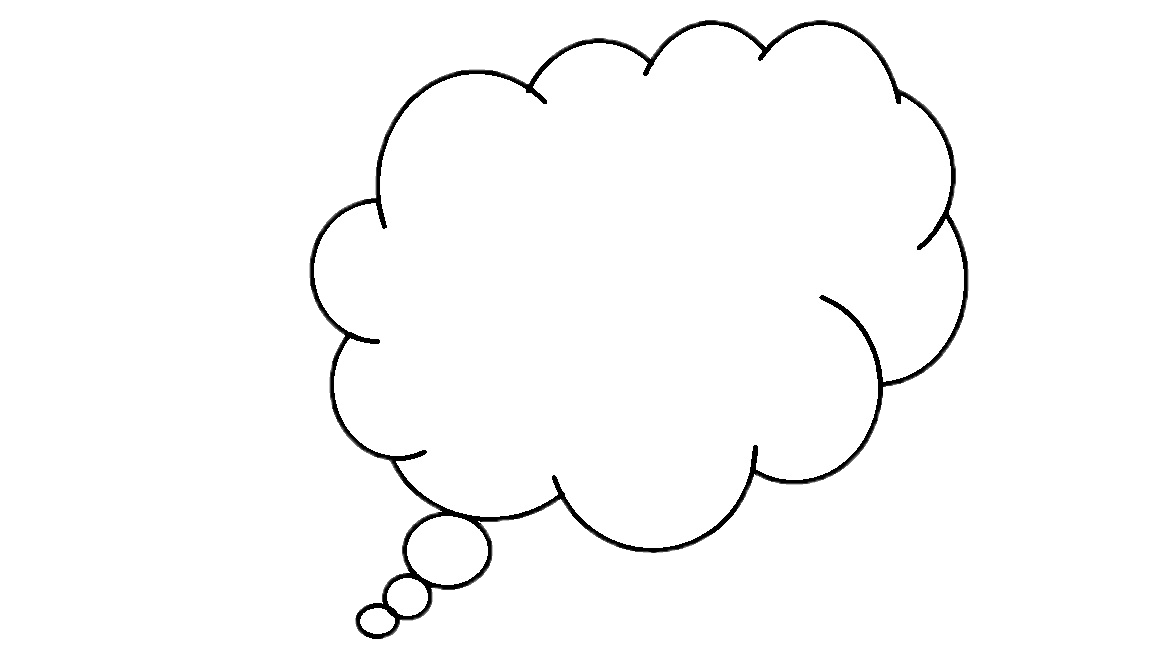
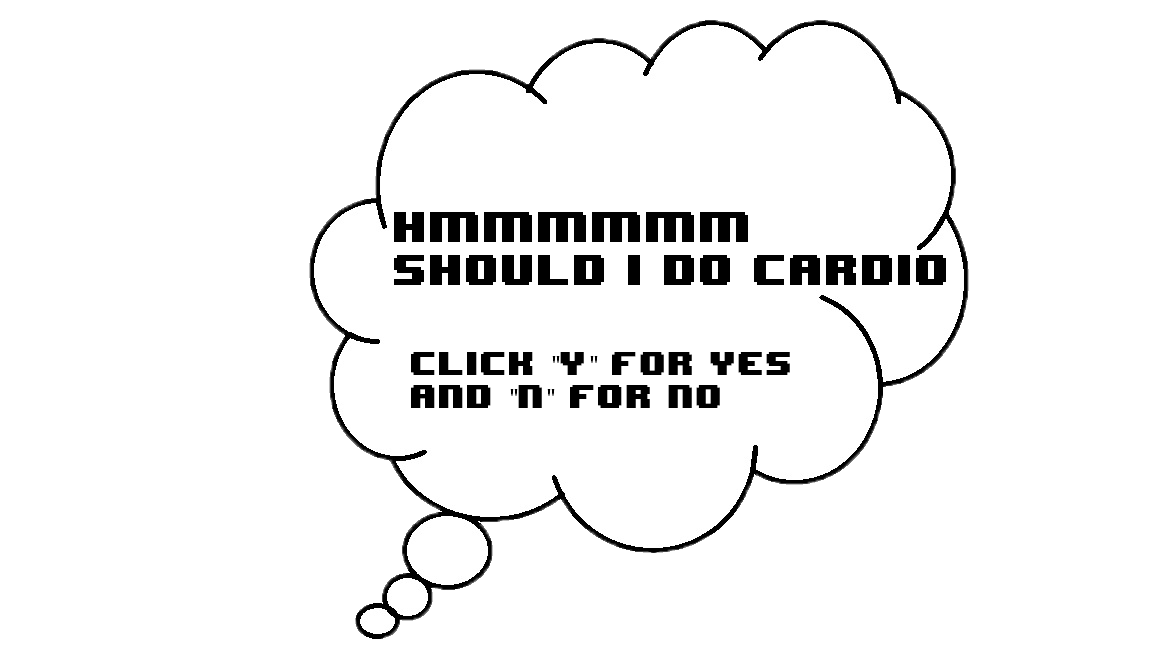
Got the big guy to show up gotta make him disappear

Changed region(s): [[0.3438, 0.3086, 0.8438, 0.463], [0.3438, 0.5247, 0.6875, 0.6481]]

diff --git a/a2/warrior.js b/a2/warrior.js
@@ -11,12 +11,14 @@ const WALK = 1;
 const ATTACK = 2;
 const JUMP = 3;
 
+
+
 function ThinkingCloud(game, spritesheets) {
 	this.spritesheets = spritesheets;
-	this.animation = new Animation(spritesheets[3], 1152, 648, 1, 0.2, 1, true, 0.2, false);
+	this.animation = new Animation(spritesheets[3], 1152, 648, 1, 0.2, 1, true, 0.3, false);
 	this.ctx = game.ctx;
 	this.pressed = false;
-	Entity.call(this, game, 400,500);
+	Entity.call(this, game, 600,350);
 
 }
 
@@ -25,12 +27,89 @@ ThinkingCloud.prototype.constructor = ThinkingCloud;
 
 ThinkingCloud.prototype.draw = function() {
 	
-	if(this.game.entities[1].x >= 800 && this.game.entities[1].x <= 850){
+	if((this.game.entities[3].x >= 450 && this.game.entities[3].x <= 550)){
 		this.animation.drawFrame(this.game.clockTick, this.ctx, this.x, this.y);
 		Entity.prototype.draw.call(this);
+		
+	}
+	if( (this.game.entities[3].x >= 350 && this.game.entities[3].x <= 380)) {
+		this.animation.drawFrame(this.game.clockTick, this.ctx, 350, this.y); //FIX THE NUMBERS
+		Entity.prototype.draw.call(this);	
 	}
 
 }
+
+ThinkingCloud.prototype.update = function () {
+	var ThinkingCloud = this;
+	this.ctx.canvas.addEventListener("keydown", function (e) { //get pressing to work
+		if (e.code === "keyY") {
+			console.log("clicked y");
+		} 		
+    }, false);
+	if((this.game.entities[1].x >= 450 && this.game.entities[1].x <= 475)) {
+		console.log("I should click Y");
+	}
+
+}
+
+function FatGuy(game, spritesheets) {
+	this.spritesheets = spritesheets;
+	this.animation = new Animation(spritesheets[4], 300, 418, 1, 0.5, 1, true, 0.85, false);
+	this.state = IDLE_RIGHT;
+	this.speed = 0;
+	this.ySpeed = 0;
+	this.ctx = game.ctx;
+	this.pressed = false;
+	Entity.call(this, game, 400, 530);
+}
+
+FatGuy.prototype = new Entity();
+FatGuy.prototype.constructor = FatGuy;
+
+FatGuy.prototype.update = function () {
+	var FatGuy = this;
+	this.ctx.canvas.addEventListener("keydown", function (e) {
+		if (e.code === "ArrowRight" && FatGuy.state !== WALK_RIGHT && 
+		    (FatGuy.state !== JUMP_RIGHT && FatGuy.state !== JUMP_LEFT)) {
+			FatGuy.pressed = true;
+			FatGuy.setState(WALK_RIGHT);
+		} 
+		if (e.code === "ArrowLeft" && FatGuy.state !== WALK_LEFT && 
+		           (FatGuy.state !== JUMP_RIGHT && FatGuy.state !== JUMP_LEFT)) {
+			FatGuy.pressed = true;
+			FatGuy.setState(WALK_LEFT);
+		}	
+	}, false);
+	this.ctx.canvas.addEventListener("keyup", function (e) {
+        if (e.code === "ArrowRight" && 
+		    FatGuy.state !== IDLE_RIGHT && 
+			FatGuy.state !== JUMP_RIGHT && 
+			FatGuy.state !== JUMP_LEFT &&		
+			FatGuy.state !== ATTACK_RIGHT && 
+			FatGuy.state !== ATTACK_LEFT) {
+			FatGuy.pressed = false;
+			FatGuy.setState(IDLE_RIGHT);
+		}
+		if (e.code === "ArrowLeft" && 
+		    FatGuy.state !== IDLE_LEFT && 
+			FatGuy.state !== JUMP_RIGHT && 
+			FatGuy.state !== JUMP_LEFT &&
+			FatGuy.state !== ATTACK_RIGHT && 
+			FatGuy.state !== ATTACK_LEFT) {
+			FatGuy.pressed = false;	
+			FatGuy.setState(IDLE_LEFT);
+		}
+    }, false);
+	this.x += this.game.clockTick * this.speed;
+	Entity.prototype.update.call(this);
+
+}
+FatGuy.prototype.draw = function () {
+    this.animation.drawFrame(this.game.clockTick, this.ctx, this.x, this.y);
+    Entity.prototype.draw.call(this);
+}
+
+
 
 function Warrior(game, spritesheets) {
 	this.spritesheets = spritesheets;
@@ -38,8 +117,6 @@ function Warrior(game, spritesheets) {
 	this.state = IDLE_RIGHT;
     this.speed = 0;
 	this.ySpeed = 0 ;
-	this.isJumping = false;
-	this.isAttacking = false;
     this.ctx = game.ctx;
 	this.pressed = false;
     Entity.call(this, game, 400, 500);
@@ -61,25 +138,6 @@ Warrior.prototype.update = function () {
 			Warrior.pressed = true;
 			Warrior.setState(WALK_LEFT);
 		}
-		if (e.code === "ArrowUp") {
-			if((Warrior.state === WALK_RIGHT || Warrior.state === IDLE_RIGHT) && 
-			   Warrior.state !== JUMP_RIGHT) {
-				Warrior.setState(JUMP_RIGHT);
-			} else if ((Warrior.state === WALK_LEFT || Warrior.state === IDLE_LEFT) && 
-			           Warrior.state !== JUMP_LEFT) {
-				Warrior.setState(JUMP_LEFT);
-			}	
-		}
-		if (e.code === "ArrowDown") {
-			if((Warrior.state === WALK_RIGHT || Warrior.state === IDLE_RIGHT) && 
-			   Warrior.state !== JUMP_RIGHT) {
-				Warrior.setState(ATTACK_RIGHT);
-			} else if ((Warrior.state === WALK_LEFT || Warrior.state === IDLE_LEFT) && 
-			           Warrior.state !== JUMP_LEFT) {
-				Warrior.setState(ATTACK_LEFT);
-			}	
-		}
-		
 		
     }, false);
 	
@@ -127,16 +185,18 @@ Warrior.prototype.update = function () {
 		this.ySpeed = 0;
 	}
 	//condtional statements can go here
-    if (this.x >= 800 && this.x <= 850){ 
-		console.log("HelloWorld");
-	}
 	
     Entity.prototype.update.call(this);
 }
 
 Warrior.prototype.draw = function () {
-    this.animation.drawFrame(this.game.clockTick, this.ctx, this.x, this.y);
-    Entity.prototype.draw.call(this);
+	if(this.game.entities[3].x > 800) {
+		console.log("fat guy walking");
+		console.log(this.game.entities[3].x);
+	 //get the first entitiy to remove and 2nd one to show
+	}
+  /*  this.animation.drawFrame(this.game.clockTick, this.ctx, this.x, this.y);
+    Entity.prototype.draw.call(this);*/
 }
 
 Warrior.prototype.setState = function(state) {
@@ -178,4 +238,25 @@ Warrior.prototype.setState = function(state) {
 		this.state = ATTACK_LEFT;
 		this.animation = new Animation(this.spritesheets[ATTACK], 230, 768, 6, 0.14, 6, true, 0.5, true);
 	}
+}
+
+FatGuy.prototype.setState = function(state) {
+	if (state === IDLE_RIGHT) {
+		this.speed = 0;
+		this.state = IDLE_RIGHT;
+		this.animation = new Animation(this.spritesheets[4], 300, 418, 1, 0.5, 1, true, 0.85, false);
+	} else if (state === IDLE_LEFT) {
+		this.speed = 0;
+		this.state = IDLE_LEFT;
+		this.animation = new Animation(this.spritesheets[4], 300, 418, 1, 0.5, 1, true, 0.85, true);
+	} else if (state === WALK_RIGHT) {
+		this.speed = 50;
+		this.state = WALK_RIGHT;
+		this.animation = new Animation(this.spritesheets[5], 300, 418, 4, 0.5, 4, true, 0.85, false);
+	} else if (state === WALK_LEFT) {
+		this.speed = -50;
+		this.state = WALK_LEFT;
+		this.animation = new Animation(this.spritesheets[5], 300, 418, 4, 0.5, 4, true, 0.85, true);
+	}
+
 }

diff --git a/a2/main.js b/a2/main.js
@@ -22,6 +22,8 @@ AM.queueDownload("./a2/img/heroIdle.png");
 AM.queueDownload("./a2/img/heroWalk.png");
 AM.queueDownload("./a2/img/heroJump.png");
 AM.queueDownload("./a2/img/think.png");
+AM.queueDownload("./a2/img/fatGuyIdle.png");
+AM.queueDownload("./a2/img/fatGuyWalking.png");
 AM.queueDownload("./a2/img/background.png");
 
 AM.downloadAll(function () {
@@ -33,16 +35,22 @@ AM.downloadAll(function () {
     gameEngine.start();
 	
 	var spritesheets = [];
-	spritesheets.push(AM.getAsset("./a2/img/heroIdle.png"));
-	spritesheets.push(AM.getAsset("./a2/img/heroWalk.png"));
-	spritesheets.push(AM.getAsset("./a2/img/heroJump.png"));
-	spritesheets.push(AM.getAsset("./a2/img/think.png"));
+	spritesheets.push(AM.getAsset("./a2/img/heroIdle.png"));//0
+	spritesheets.push(AM.getAsset("./a2/img/heroWalk.png"));//1
+	spritesheets.push(AM.getAsset("./a2/img/heroJump.png"));//2
+	spritesheets.push(AM.getAsset("./a2/img/think.png"));//3
+	spritesheets.push(AM.getAsset("./a2/img/fatGuyIdle.png"));//4
+	spritesheets.push(AM.getAsset("./a2/img/fatGuyWalking.png"));//5
+	
+	
 	
 	gameEngine.addEntity(new Background(gameEngine, AM.getAsset("./a2/img/background.png")));
 	
 	gameEngine.addEntity(new Warrior(gameEngine, spritesheets));
 	
 	gameEngine.addEntity(new ThinkingCloud(gameEngine, spritesheets));
+	
+	gameEngine.addEntity(new FatGuy(gameEngine, spritesheets));
 
     console.log("All Done!");
 });
